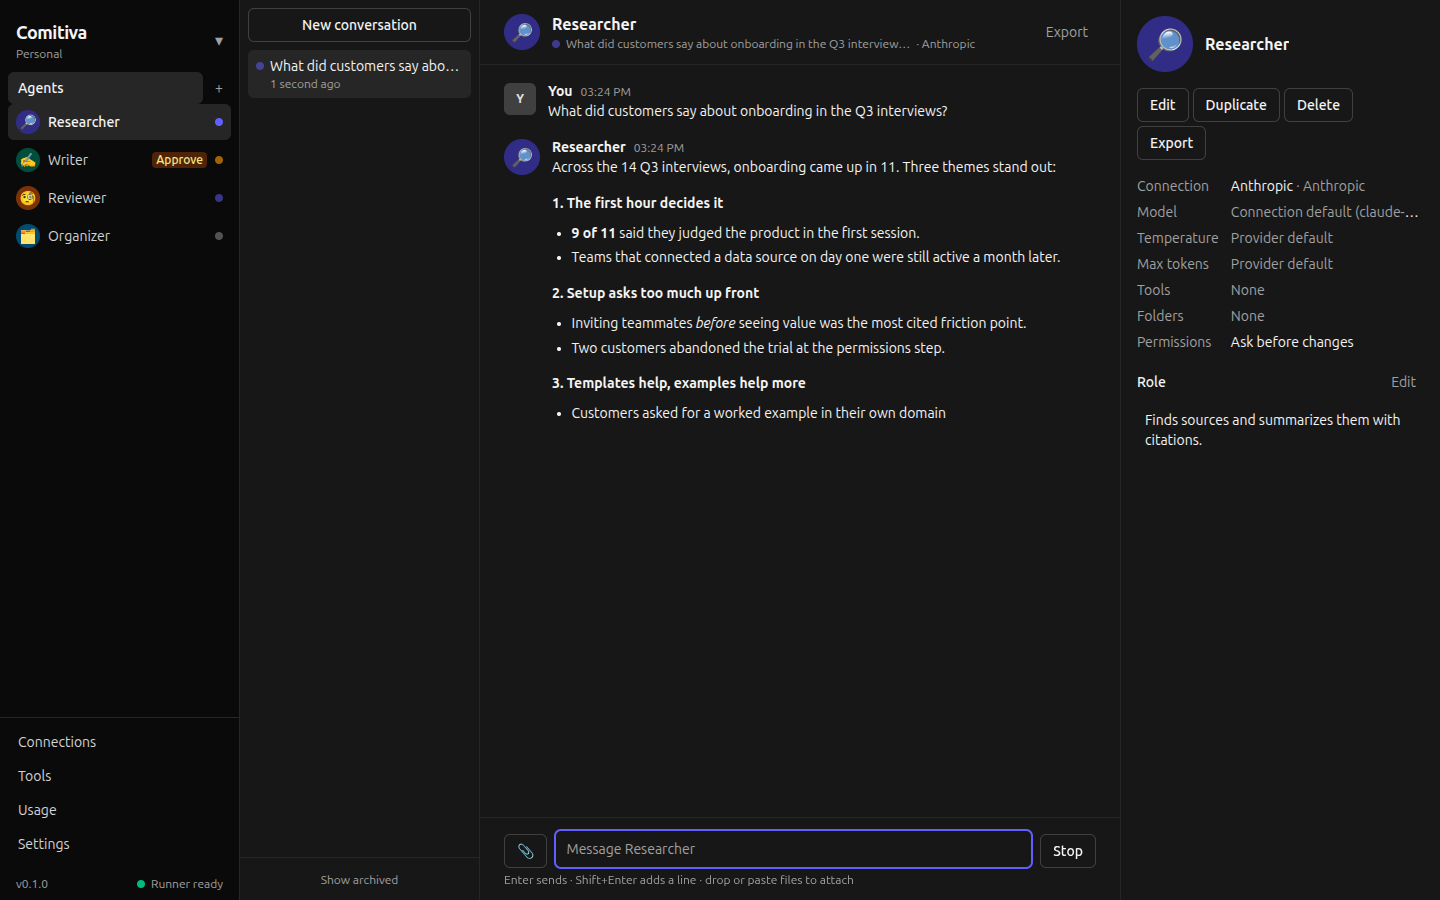
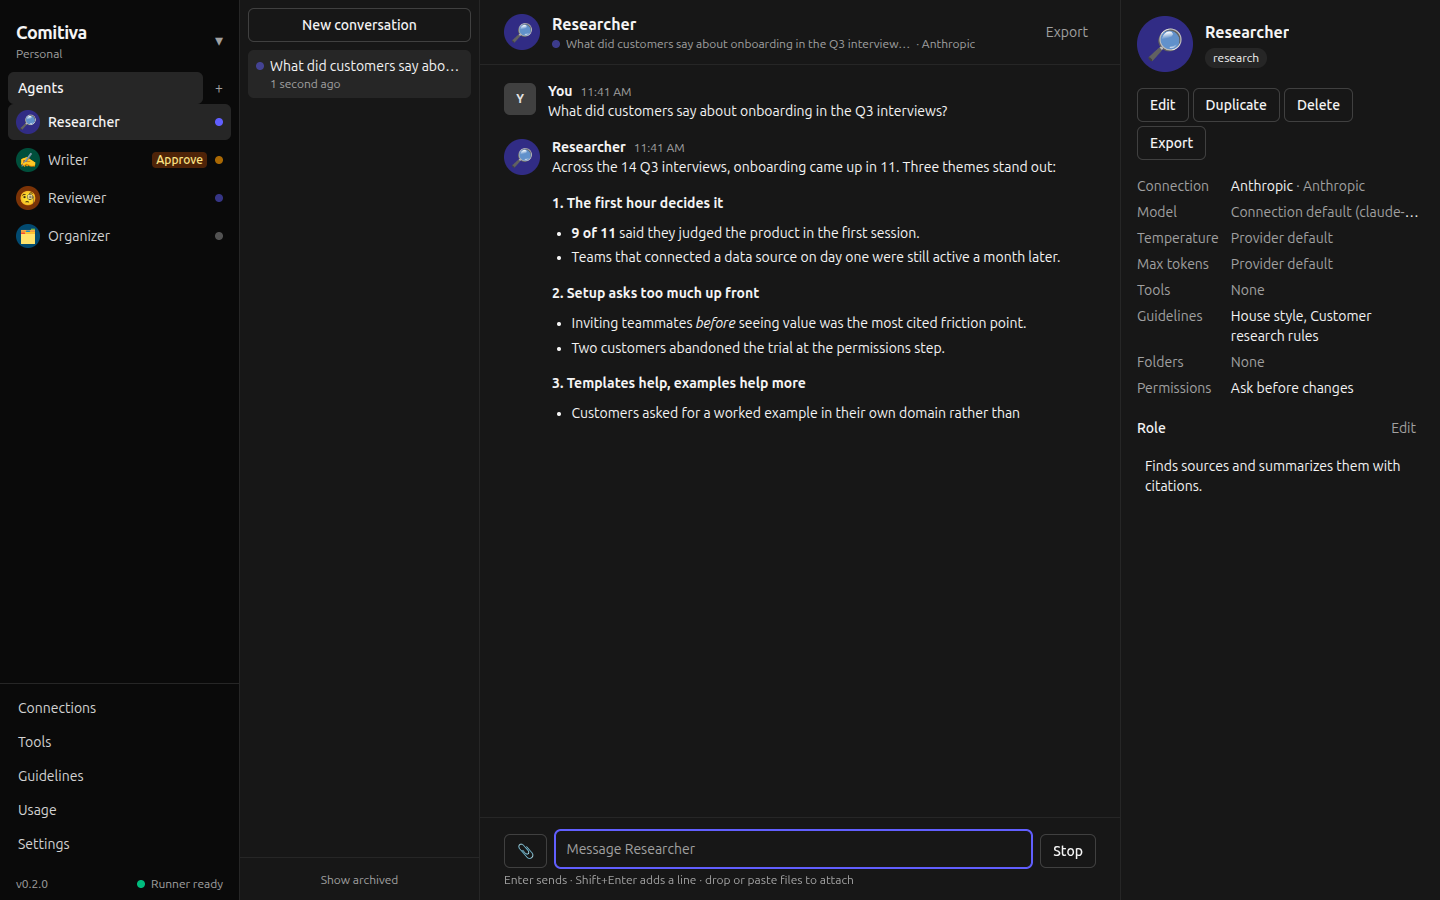
docs: screenshots of guidelines, search and usage
Claude-Session: https://claude.ai/code/session_01P6J91uLq16pL451tPLQQ6k

diff --git a/apps/desktop/e2e-screenshots/screenshots.spec.ts b/apps/desktop/e2e-screenshots/screenshots.spec.ts
@@ -63,6 +63,43 @@ const REPLY = {
 Want me to rewrite the hero section with these changes so you can compare both versions?`,
 };
 
+/** Guidelines for the team: one for everyone, two by tag, one the Writer picks. */
+const GUIDELINES = [
+  {
+    name: 'House style',
+    scope: 'all' as const,
+    agentTags: [],
+    content: `Write for customers, not for engineers.
+
+- Short sentences, active voice.
+- Lead with the answer, then the detail.
+- No jargon: "one place for all your agents", not "orchestration layer".`,
+  },
+  {
+    name: 'Customer research rules',
+    scope: 'tags' as const,
+    agentTags: ['research'],
+    content: `- Quote customers word for word, with the interview number.
+- Keep what customers said apart from what we conclude.
+- Say how many interviews back each theme.`,
+  },
+  {
+    name: 'Review checklist',
+    scope: 'tags' as const,
+    agentTags: ['review'],
+    content: `1. Is the main point in the first sentence?
+2. Is every claim backed by a source or a number?
+3. Would a new customer understand every word?`,
+  },
+  {
+    name: 'Glossary',
+    scope: 'agents' as const,
+    agentTags: [],
+    content: `**Activation**: a team's first successful run.
+**Trial**: the first 14 days, before a plan is chosen.`,
+  },
+];
+
 const FILE = `# Onboarding feedback, Q3
 
 Three themes from 14 customer interviews...
@@ -183,6 +220,9 @@ async function scene(scheme: 'light' | 'dark') {
     name: 'Ollama',
     config: { baseUrl: fake.urls.ollama, defaultModel: 'llama-fake:latest' },
   });
+  const guidelines = [];
+  for (const g of GUIDELINES) guidelines.push(await invoke('guidelines.create', g));
+  const glossary = guidelines.find((g) => g.name === 'Glossary')!.id;
   const agents = [
     [
       'Researcher',
@@ -191,17 +231,39 @@ async function scene(scheme: 'light' | 'dark') {
       claude,
       'Finds sources and summarizes them with citations.',
       false,
+      ['research'],
+      [],
     ],
-    ['Writer', 'emerald', '✍', claude, 'Drafts documents in the shared folder.', true],
-    ['Reviewer', 'amber', '🧐', local, 'Reviews copy for tone, clarity and accuracy.', false],
-    ['Organizer', 'sky', '🗂', local, 'Keeps the research folder tidy.', true],
+    [
+      'Writer',
+      'emerald',
+      '✍',
+      claude,
+      'Drafts documents in the shared folder.',
+      true,
+      ['writing'],
+      [glossary],
+    ],
+    [
+      'Reviewer',
+      'amber',
+      '🧐',
+      local,
+      'Reviews copy for tone, clarity and accuracy.',
+      false,
+      ['review'],
+      [],
+    ],
+    ['Organizer', 'sky', '🗂', local, 'Keeps the research folder tidy.', true, [], []],
   ] as const;
-  for (const [name, color, emoji, conn, role, files] of agents) {
+  for (const [name, color, emoji, conn, role, files, tags, guidelineIds] of agents) {
     await invoke('agents.create', {
       name,
       avatar: { color, emoji },
       connectionId: conn.connection.id,
       role,
+      tags: [...tags],
+      guidelineIds: [...guidelineIds],
       ...(files
         ? { roots: [{ path: folder, mode: 'readwrite' as const }], toolServerIds: ['filesystem'] }
         : {}),
@@ -246,6 +308,41 @@ async function scene(scheme: 'light' | 'dark') {
   ).toContainText('slides next', { timeout: 20_000 });
   await page.waitForTimeout(1200);
   await shot('tools');
+
+  // Search across every conversation.
+  await page.keyboard.press('Control+K');
+  await page.getByTestId('switcher-input').fill('onboarding');
+  await expect(page.getByTestId('switcher-item').first()).toBeVisible();
+  await page.waitForTimeout(400);
+  await shot('search');
+  await page.keyboard.press('Escape');
+
+  // Guidelines: the list, one being edited, and the Writer's checklist.
+  await page.getByTestId('nav-guidelines').click();
+  await expect(page.getByTestId('guideline-row')).toHaveCount(GUIDELINES.length);
+  await shot('guidelines');
+  await page
+    .locator('[data-testid="guideline-row"][data-name="Customer research rules"]')
+    .getByTestId('edit')
+    .click();
+  await expect(page.getByTestId('guideline-form')).toBeVisible();
+  await page.waitForTimeout(300);
+  await shot('guideline-form');
+  await page.getByTestId('guideline-form').getByTestId('cancel').click();
+
+  await open('Writer');
+  await page.getByTestId('agent-edit').click();
+  await page
+    .getByTestId('agent-guidelines')
+    .evaluate((el) => el.scrollIntoView({ block: 'center' }));
+  await page.waitForTimeout(300);
+  await shot('agent-guidelines');
+  await page.getByTestId('cancel').click();
+
+  // What the runs above cost, by connection, agent and model.
+  await page.getByTestId('nav-usage').click();
+  await page.waitForTimeout(800);
+  await shot('usage');
 
   await app.close();
   await fake.close();
